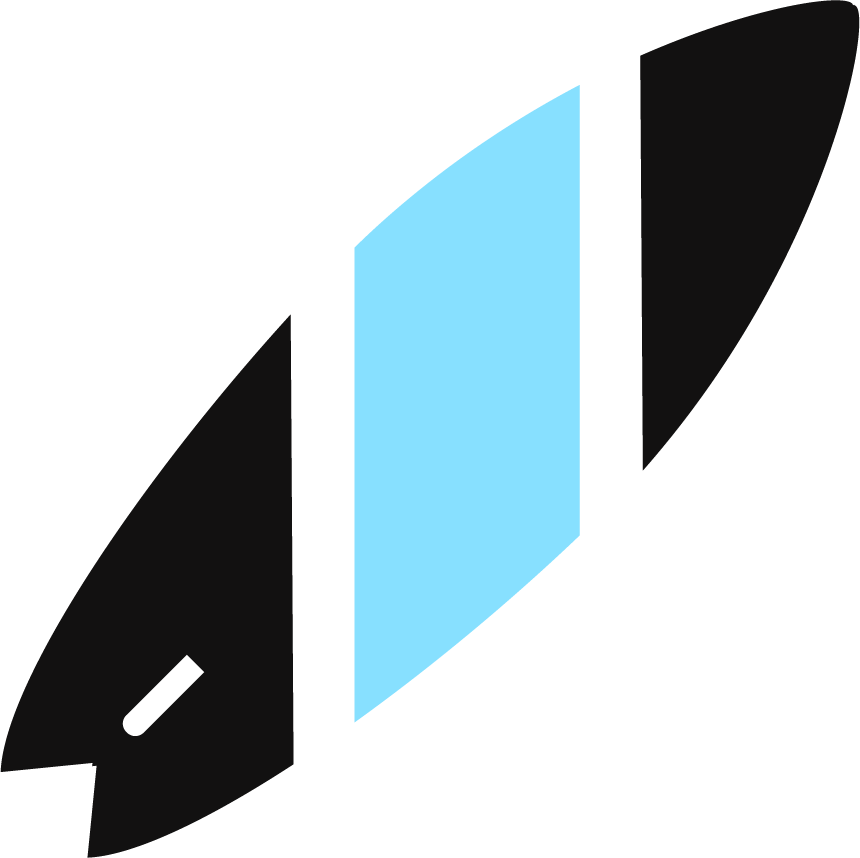
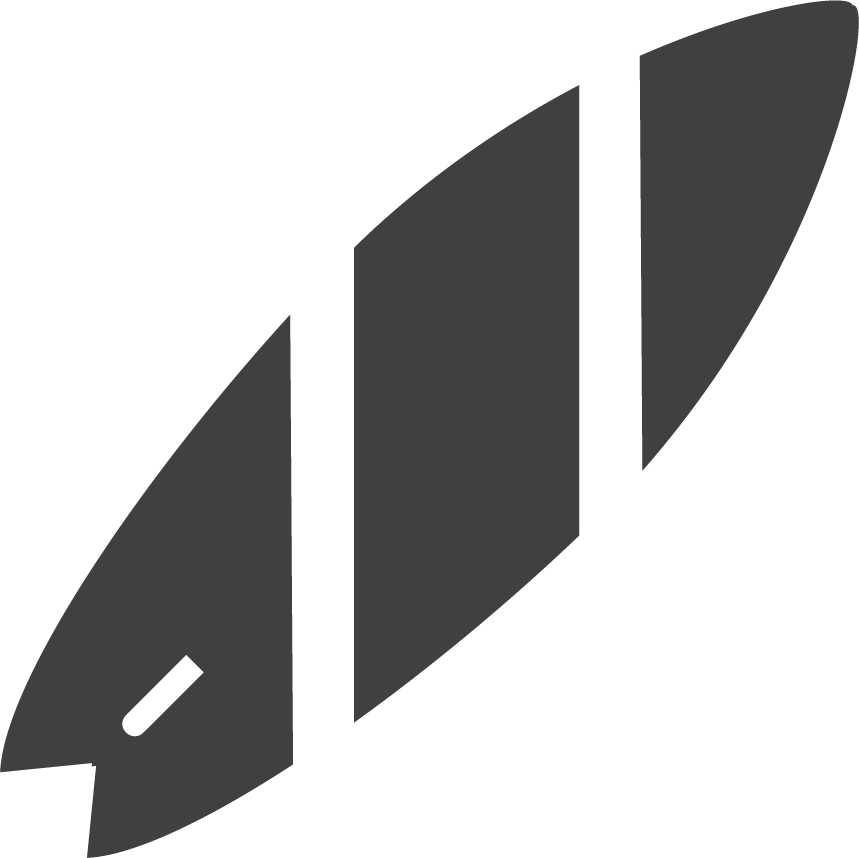
adjusted styling

diff --git a/src/components/RangeSlider.css b/src/components/RangeSlider.css
@@ -17,7 +17,7 @@
   border-radius: 20%;
   height: 20px;
   width: 20px;
-  background: #121111;
+  background: #3f4042;
   box-shadow: 20px 20px 60px #c5cbcf, -20px -20px 60px #ffffff;
   cursor: pointer;
 }
@@ -27,7 +27,7 @@
   height: 20px;
   width: 20px;
   border: none;
-  background: #121111;
+  background: #3f4042;
   box-shadow: 20px 20px 60px #c5cbcf, -20px -20px 60px #ffffff;
   cursor: pointer;
   transition: all 0.2s;
@@ -35,5 +35,5 @@
 
 .range-slider::-moz-range-thumb:hover {
   transform: scale(1.2);
-  background: #53c7f0;
+  background: #53f0ce;
 }

diff --git a/src/App.css b/src/App.css
@@ -8,11 +8,12 @@
   margin: 50px auto;
   border-radius: 10px;
   background: #e7e9f2;
-  box-shadow: 5px 5px 10px #dbdde6, -5px -5px 10px #f3f5fe;
-  max-width: 1000;
+  box-shadow: inset 5px 5px 10px #dbdde6, inset -5px -5px 10px #f3f5fe;
+  max-width: 1000px;
+  min-width: 60%;
 }
 img {
-  margin: 1rem;
+  margin-top: 1.2rem;
 }
 .box {
   display: flex;
@@ -27,7 +28,7 @@ input.button {
   border: none;
   font-size: 1rem;
   padding: 1rem;
-  margin: 0rem 1rem;
+  margin: 0 1rem;
   border-radius: 10px;
   -webkit-appearance: none;
   -moz-appearance: none;

diff --git a/src/components/RangeSlider.js b/src/components/RangeSlider.js
@@ -2,14 +2,16 @@ import React from 'react';
 import './RangeSlider.css';
 const RangeSlider = (props) => {
   return (
-    <input
-      className='range-slider'
-      min='40'
-      max='110'
-      type='range'
-      value={props.value}
-      onChange={props.handler}
-    ></input>
+    <label>
+      <input
+        className='range-slider'
+        min='40'
+        max='110'
+        type='range'
+        value={props.value}
+        onChange={props.handler}
+      ></input>
+    </label>
   );
 };
 

diff --git a/src/components/Calculator.js b/src/components/Calculator.js
@@ -26,8 +26,8 @@ function Calculator() {
 
   return (
     <div className='controls'>
-      <h2>Volume: {(weight * skill).toFixed(2) + 'L'}</h2>
-      <h4>Weight: {weight + 'kg'}</h4>
+      <h2>BOARD VOLUME: {(weight * skill).toFixed(2) + 'L'}</h2>
+      <p>YOUR WEIGHT: {weight + 'kg'}</p>
       <RangeSlider value={weight} handler={handleWeight} />
       <SkillButton value='beginner' handler={handleButton} />
       <SkillButton value='intermediate' handler={handleButton} />

diff --git a/src/App.js b/src/App.js
@@ -11,14 +11,7 @@ function App() {
       <div className='App'>
         <Calculator />
 
-        <div className='box'>
-          <img
-            src={surfboard}
-            alt='surfboard'
-            width='150px;'
-            height='150px;'
-          ></img>
-        </div>
+        <img src={surfboard} alt='surfboard' width='70px;' height='70px;'></img>
       </div>
     </>
   );

diff --git a/src/components/SkillButton.js b/src/components/SkillButton.js
@@ -10,7 +10,7 @@ const SkillButton = (props) => {
         value={props.value}
         onClick={props.handler}
       ></input>
-      {props.value}
+      {props.value.toUpperCase()}
     </label>
   );
 };
